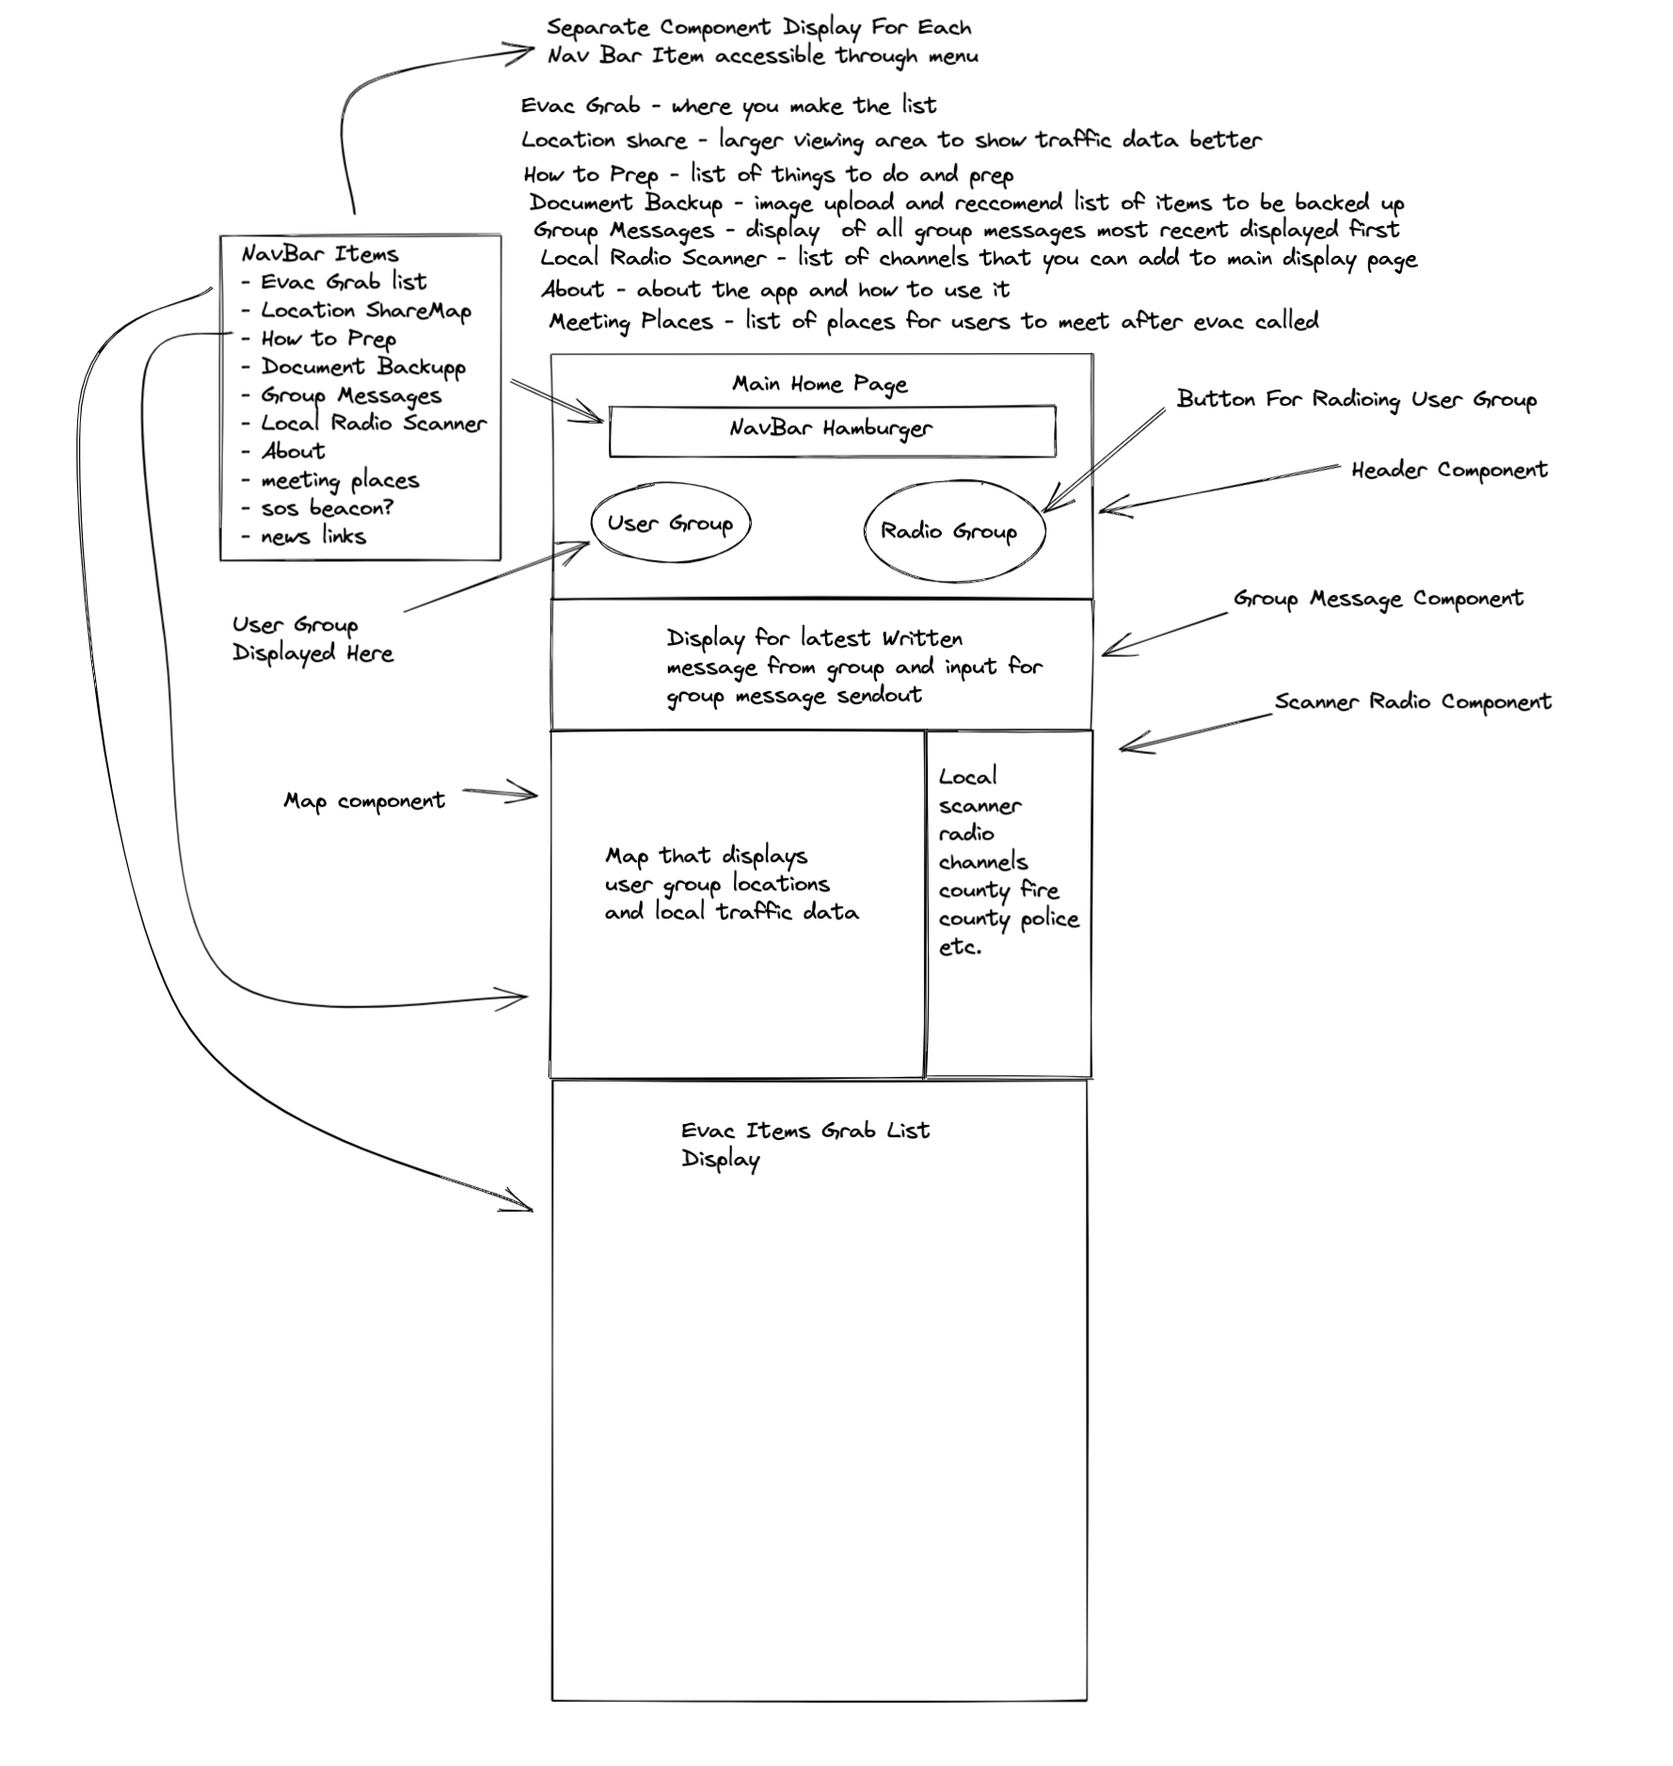
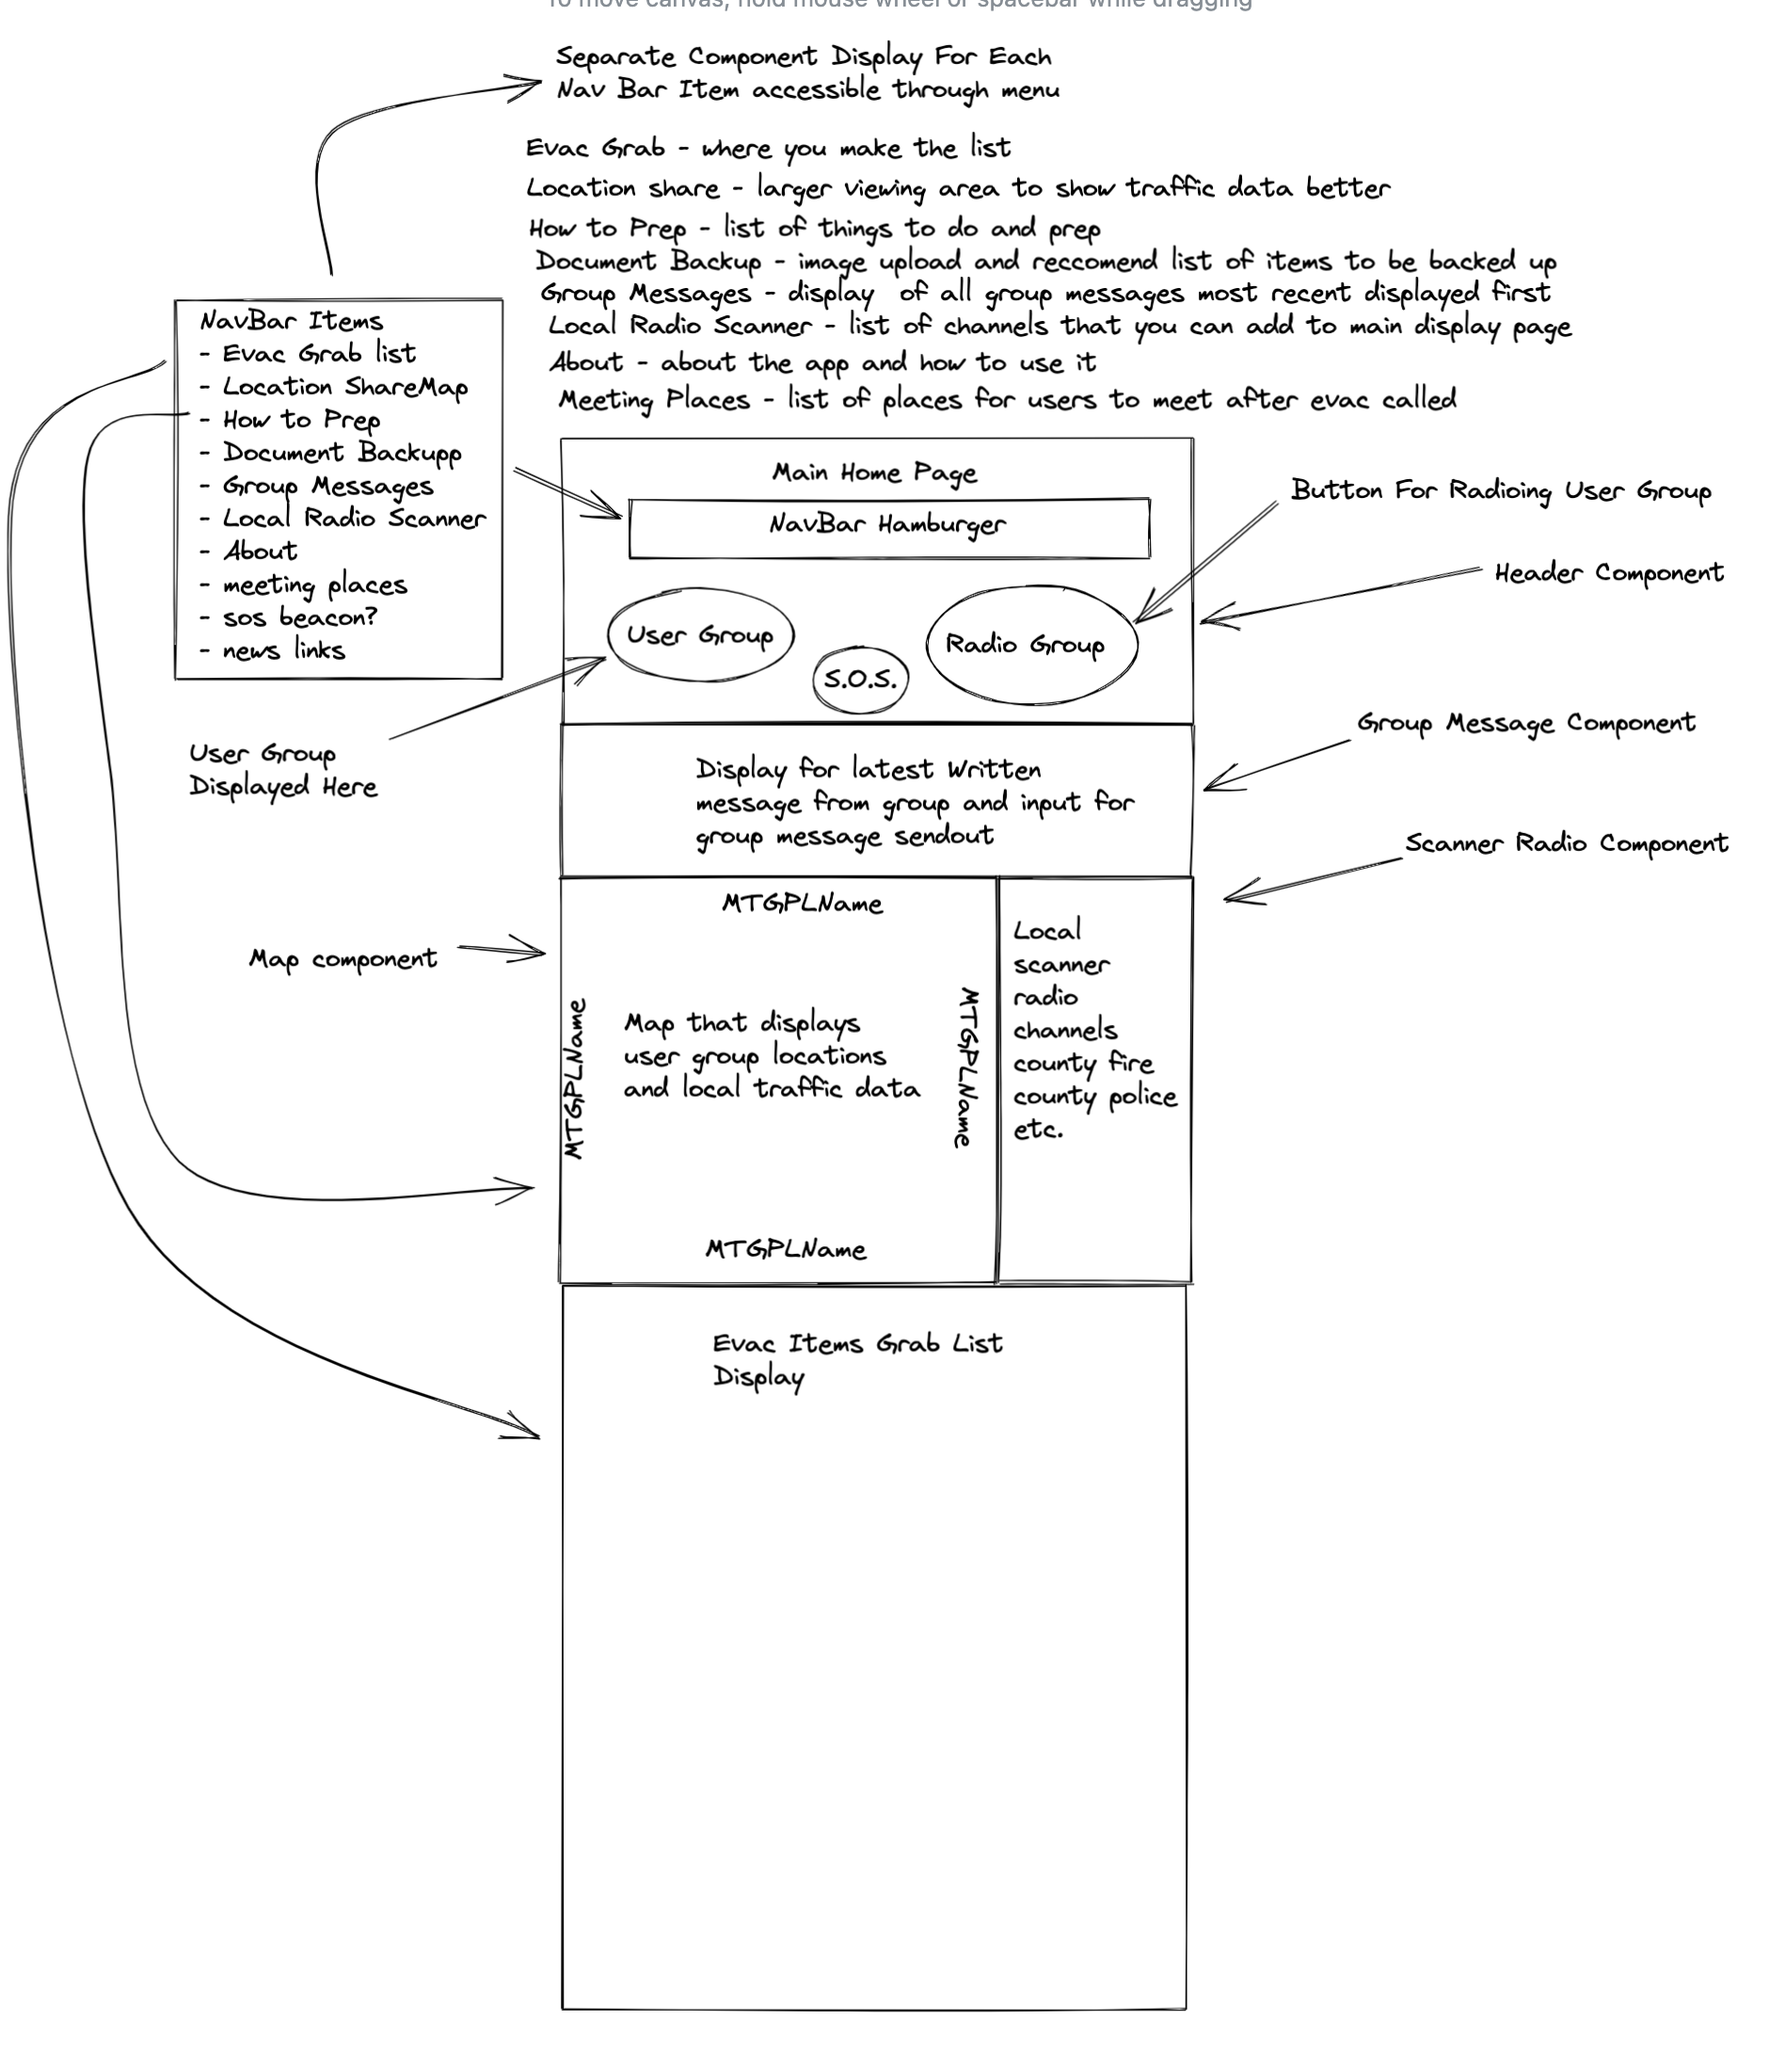
proposal for readme done

diff --git a/README.md b/README.md
@@ -1,25 +1,45 @@
 # Evac Assistance App - working title? Evaxapp or EvacPrapp or Evac Assist
-### Capstone Project for General Assembly
-### Technical Requirements
-project must:
+## What is this 
+An Evacuation Assistance App to help individuals, families and friends reduce the stress and have a plan when the need to evacuate their home arises.
 
-- Be a complete product.
-- Implement thoughtful user stories
-- Be deployed online
-    - app store for me 
-- Use something we didn't teach in class
-    - React Native
+## The Idea 
+Things The app will do
+- Store an Evac Grab list
+    - list of items to grab ordered by importance and evacuation status
+    - Have prep steps for each evacuation zone level 1-3
+
+- Have a Group of users that individual users can join  
+   - Use Location Sharing displayed on the map for user group
+       - have traffic data loaded from google maps 
+       - so users can find others in the group to meetup if evac called when users are separate
+       - Have meeting places in each of the 4 cardinal directions so depending on traffic and where evac 
+       emergency is there is a designated place to meet and gather user group
+    - S.O.S. Beacon button to notify user group that individual user is in immediate danger/ needs assistance
+    - Have 2way radio functionality (not sure if this is possible it is a SUPER STRECH GOAL for the timeframe)
+        - operates like CB radio giving users ability to communicate if cell towers go down
+        - can send recorded messages 
+        - can talk real-time like CB radio
+        
+- Has Evac Prep steps for things to do as an initial phase of preparation
+    - take photos of important items in house
+    - take photos of important documents 
+        - (deed for the house, licenses, passports, birth certs. etc)
+    - how to build a go-bag of necessary items 
+    - safe deposit box or safe recommendation?
+
+- access to local scanner Radio by county and city
 
 ## Timeline 
 - March 7th
     - Submit Proposal For Approval
-    - Have wireframes, timeline, and basic readme complete for proposal
+    - Have wireframes, and basic readme complete for proposal
     - build initial framework for front end
         - create all screens and boilerplates 
         - create all reusable components boilerplate
         - create navbar using one of the 3 navigations( Drawer Naviagator may be best option)
             - connect navbar to all screens
     - decide technology for backend
+    - complete timeline and pseudocode 
 - March 8th
 - March 9th
 - March 10th
@@ -34,5 +54,35 @@ project must:
     - Presentation Day! 
 
 ## WireFrames
+### Evac App full sketch 
+[!alt text](https://github.com/rybaier/evac-assistance-app/blob/main/wireframes/evac%20app.png)
 ### main screen
-    
+[!alt text](https://github.com/rybaier/evac-assistance-app/blob/main/wireframes/Main%20Screen.png)
+### about screen
+[!alt text](https://github.com/rybaier/evac-assistance-app/blob/main/wireframes/About%20Screen.png)
+### Create Evac Grab List Screen
+[!alt text](https://github.com/rybaier/evac-assistance-app/blob/main/wireframes/Create%20Evac%20Grab%20List%20%20Screen.png)
+### Document Backup Screen
+[!alt text](https://github.com/rybaier/evac-assistance-app/blob/main/wireframes/Document%20Backup%20Screen.png)
+### Group Message Screen
+[!alt text](https://github.com/rybaier/evac-assistance-app/blob/main/wireframes/Group%20Message%20Screen.png)
+### How to Prep and Use App Screen
+[!alt text](https://github.com/rybaier/evac-assistance-app/blob/main/wireframes/How%20to%20Prep%20Screen.png)
+### Local Scanner Radio Screen
+[!alt text](https://github.com/rybaier/evac-assistance-app/blob/main/wireframes/Local%20Scanner%20Screen.png)
+### Location Share Screen 
+[!alt text](https://github.com/rybaier/evac-assistance-app/blob/main/wireframes/Location%20Share%20Screen.png)
+### Meeting Place Screen 
+[!alt text](https://github.com/rybaier/evac-assistance-app/blob/main/wireframes/Meeting%20Place%20Screen.png)
+
+
+### Capstone Project for General Assembly
+### Technical Requirements
+project must:
+
+- Be a complete product.
+- Implement thoughtful user stories
+- Be deployed online
+    - app store for me 
+- Use something we didn't teach in class
+    - React Native
